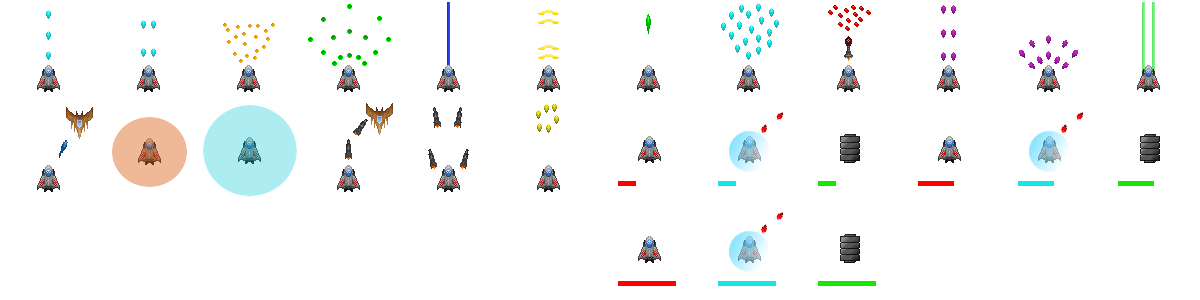
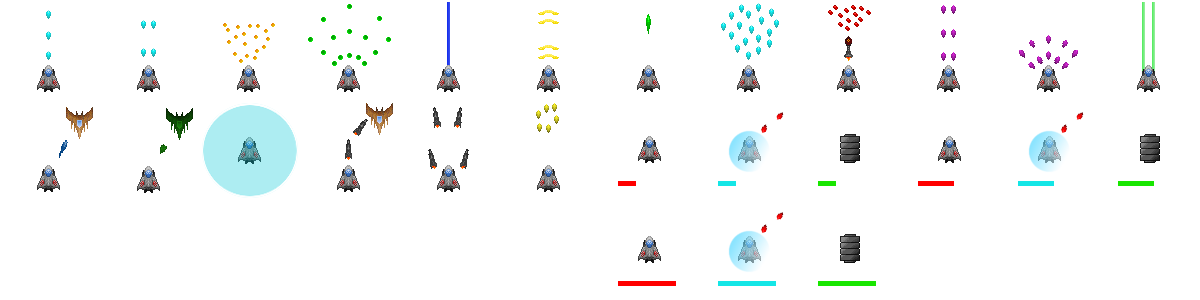
Fixes resolution-change and star edges problem. Makes Flight Training 3 easier. Moves Space Duck to its correct location. Updates info text about Space Duck. Re-colors disruptor and visualization.

Changed region(s): [[0.0925, 0.36, 0.185, 0.63]]

diff --git a/SpaceProject v.0.7/SpaceProject/SpaceProject/Overworld-part/OverworldEvents/Instances/AsteroidEvents/FindTextOnAsteroidOE.cs b/SpaceProject v.0.7/SpaceProject/SpaceProject/Overworld-part/OverworldEvents/Instances/AsteroidEvents/FindTextOnAsteroidOE.cs
@@ -7,7 +7,7 @@ namespace SpaceProject
 {
     class FindTextOnAsteroidOE : OverworldEvent
     {
-        private List<String> beginningText = new List<String> { 
+        private List<String> beginningText = new List<String> {
             "You find a deserted building.#It seems to once have been a space station. There is nothing of value here now.", 
             "You find a message scribbled into the stone.#\"Noone is who they seem to be anymore...\"", 
             "You find a message scribbled into the stone.#\"Once upon a time. What happened then?\"#\"It is all gone.\"", 
@@ -19,7 +19,7 @@ namespace SpaceProject
             "This asteroid looks like a huge potato.",
             "[SAIR] An ambush!#...#[SAIR] Sorry, I should probably update my sensors. False alarm.",
             "[SAIR] Another... asteroid! It gets so repetitive.",
-            "You find a message scribbled into the stone.#\"Have you been to the corner of the universe? The upper left.\"#\"My grandmother hid some forgotten technology there. Far, far away...\"",
+            "You find a message scribbled into the stone.#\"(3737, 4242)\"",
             "You find a message scribbled into the stone.#\"Sometimes, voices whisper three names to me. Who are they?\""
         };
 

diff --git a/SpaceProject v.0.7/SpaceProject/SpaceProject/GameUtils/UI/Portrait.cs b/SpaceProject v.0.7/SpaceProject/SpaceProject/GameUtils/UI/Portrait.cs
@@ -228,8 +228,8 @@ namespace SpaceProject
             else if (lowerCase.Contains("[concerned citizen]")
                 || lowerCase.Contains("{concerned citizen}"))
             {
-                lastPortraitID = PortraitID.CommonCitizen;
-                return PortraitID.CommonCitizen;
+                lastPortraitID = PortraitID.RebelLeader;
+                return PortraitID.RebelLeader;
             }
 
             else if (lowerCase.Contains("[colony doctor]")
@@ -267,6 +267,13 @@ namespace SpaceProject
                 return PortraitID.Pai;
             }
 
+            else if (lowerCase.Contains("[afl]")
+                || lowerCase.Contains("{afl}"))
+            {
+                lastPortraitID = PortraitID.AllianceCaptain2;
+                return PortraitID.AllianceCaptain2;
+            }
+            
             else if (lowerCase.Contains("\""))
             {
                 return lastPortraitID;

diff --git a/SpaceProject v.0.7/SpaceProject/SpaceProject/Missions/MainMissions/Phase 1/Main2_1_TheConvoy.cs b/SpaceProject v.0.7/SpaceProject/SpaceProject/Missions/MainMissions/Phase 1/Main2_1_TheConvoy.cs
@@ -42,10 +42,8 @@ namespace SpaceProject
 
             RestartAfterFail();
             Station soelaraStation = Game.stateManager.overworldState.GetStation("Soelara Station");
-
             RewardItems.Add(new LongShotWeapon(Game, ItemVariety.regular));
-
-            freighterHP = 2000;
+            freighterHP = 1500;
 
             Setup();
         }
@@ -72,7 +70,6 @@ namespace SpaceProject
         public override void OnFailed()
         {
             base.OnFailed();
-
             PopupHandler.DisplayMessage("The freighter was destroyed and the mission failed. Return to Highfence to try again.");
         }
 

diff --git a/SpaceProject v.0.7/SpaceProject/SpaceProject/Shooter-part/GameObjects/Bullets/Player Bullets/Secondary/DisruptorBullet.cs b/SpaceProject v.0.7/SpaceProject/SpaceProject/Shooter-part/GameObjects/Bullets/Player Bullets/Secondary/DisruptorBullet.cs
@@ -22,13 +22,12 @@ namespace SpaceProject
             Damage = 15;
             ObjectClass = "bullet";
             Duration = 1000;
-
             disruptionTime = 2500;
 
             anim.LoopTime = 300;
-            anim.AddFrame(spriteSheet.GetSubSprite(new Rectangle(42, 24, 5, 9)));
+            anim.AddFrame(spriteSheet.GetSubSprite(new Rectangle(62, 25, 6, 10)));
 
-            Bounding = new Rectangle(42, 24, 5, 9);
+            Bounding = new Rectangle(62, 25, 6, 10);
 
             BoundingSpace = 0;
 

diff --git a/SpaceProject v.0.7/SpaceProject/SpaceProject/GameUtils/StaticFunctions.cs b/SpaceProject v.0.7/SpaceProject/SpaceProject/GameUtils/StaticFunctions.cs
@@ -24,7 +24,7 @@ namespace SpaceProject
         private static Vector2 windowDimensions;
         private static Boolean isWindowSizeInitiated = false;
 
-        private static void InitiateWindowValues(Game1 game)
+        public static void InitiateWindowValues(Game1 game)
         {
             float windowHeight = game.Window.ClientBounds.Height;
             float windowWidth = game.Window.ClientBounds.Width;

diff --git a/SpaceProject v.0.7/SpaceProject/SpaceProject/Overworld-part/GameObjects/SubInteractiveObjects/Instances/SpaceDuck.cs b/SpaceProject v.0.7/SpaceProject/SpaceProject/Overworld-part/GameObjects/SubInteractiveObjects/Instances/SpaceDuck.cs
@@ -15,7 +15,7 @@ namespace SpaceProject
         public override void Initialize()
         {
             sprite = spriteSheet.GetSubSprite(new Rectangle(80, 1400, 92, 81));
-            position = MathFunctions.CoordinateToPosition(new Vector2(100, 100));
+            position = MathFunctions.CoordinateToPosition(new Vector2(3737, 4242));
             name = "Space Duck";
             base.Initialize();
 

diff --git a/SpaceProject v.0.7/SpaceProject/SpaceProject/Game1.cs b/SpaceProject v.0.7/SpaceProject/SpaceProject/Game1.cs
@@ -373,6 +373,8 @@ namespace SpaceProject
             graphics.PreferredBackBufferHeight = (int)resolution.Y;
             graphics.ApplyChanges();
 
+            StaticFunctions.InitiateWindowValues(this);
+
             menuBGController.Initialize();
             musicManager.Initialize();
             soundEffectsManager.Initialize();
